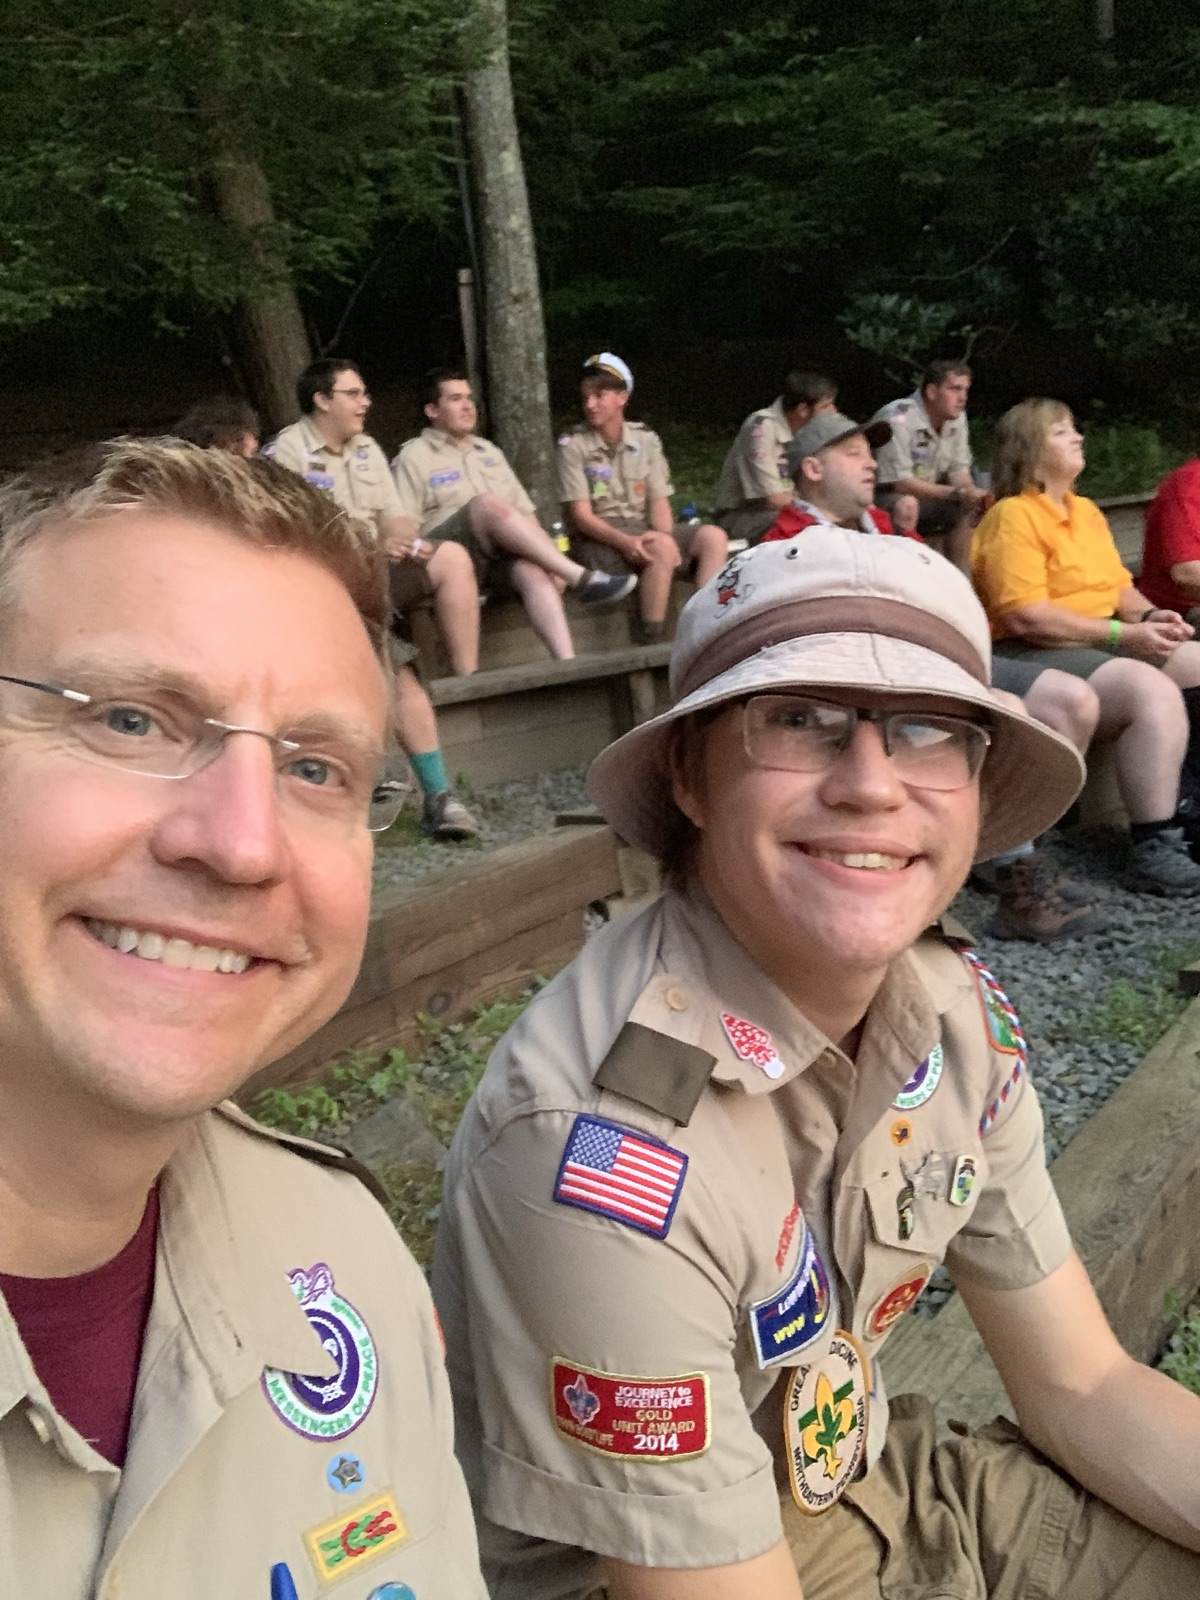
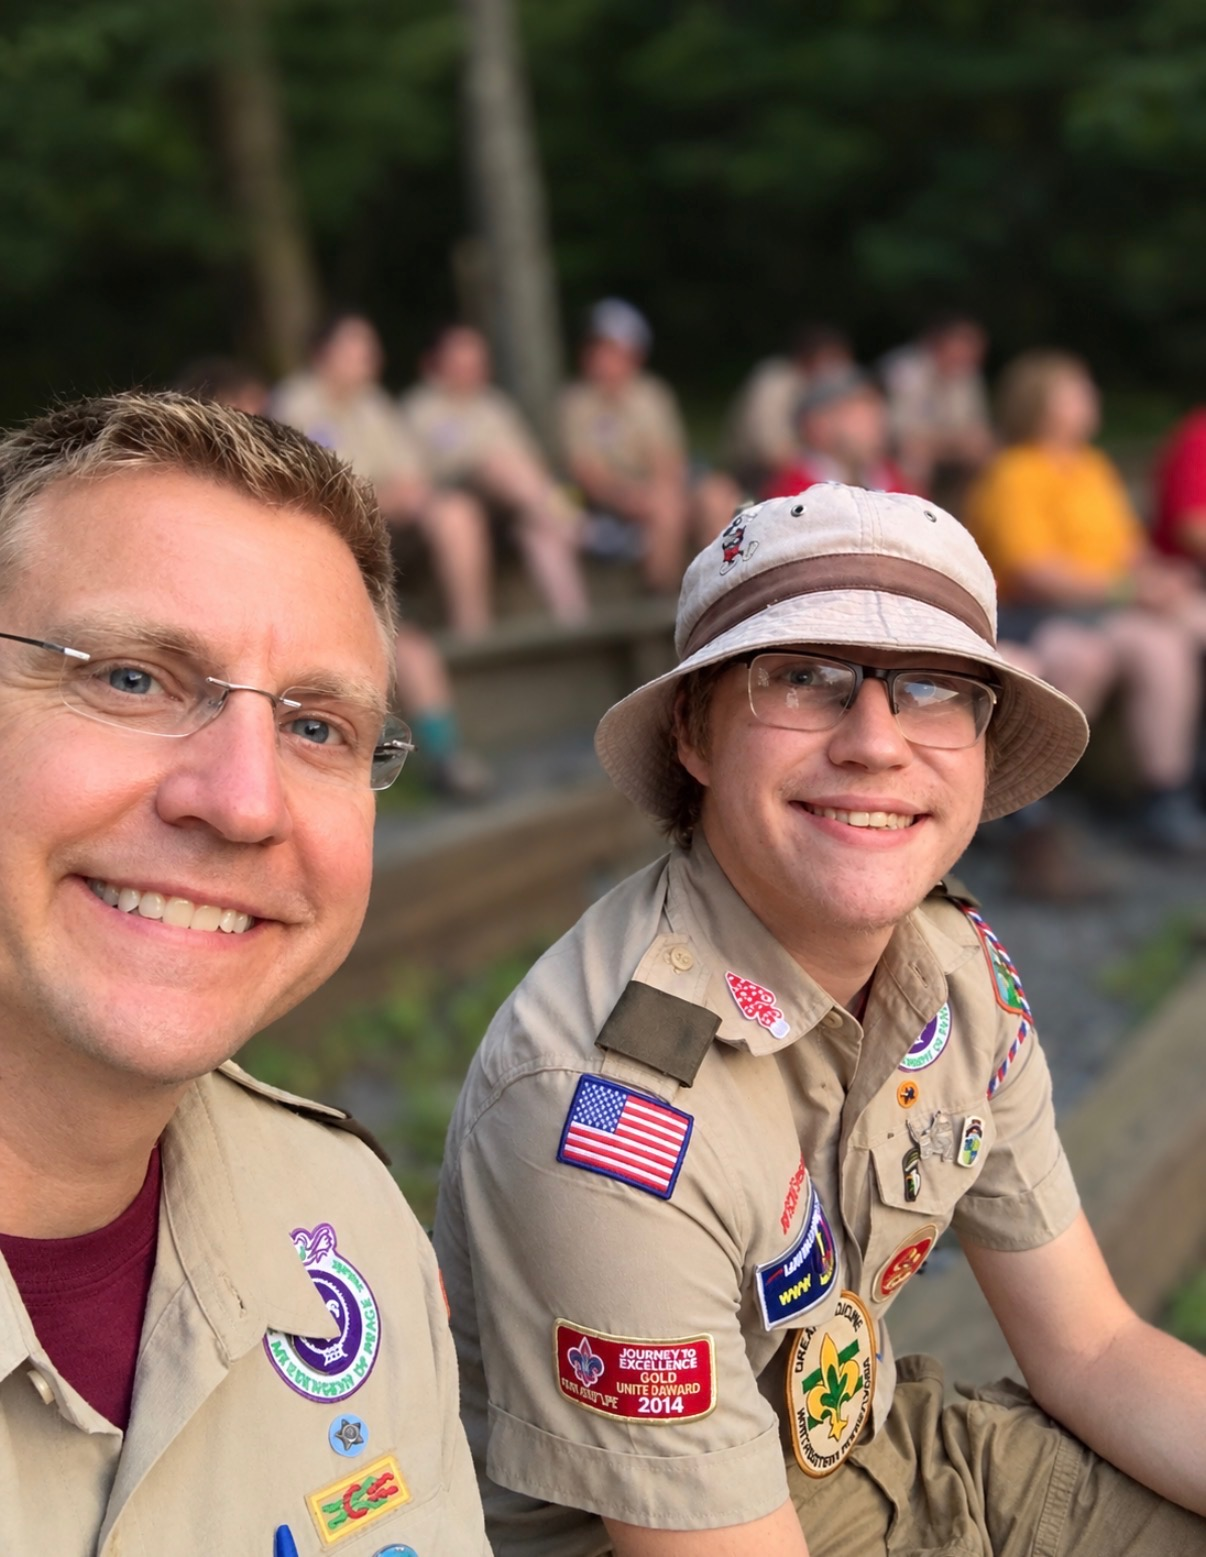
Replace Evan's slideshow photo with the background-blurred version
Swaps in the background-blurred camp photo for the existing Evan slot
instead of adding it as a separate sixth photo, and drops the
now-unused family-evan-camp.jpg.

diff --git a/components/family-slideshow.tsx b/components/family-slideshow.tsx
@@ -7,9 +7,8 @@ const photos = [
   { id: 1, src: "/family-beach.jpg", alt: "Chris Kimler with his wife and four children on the beach in Florida" },
   { id: 2, src: "/family-wesley.jpg", alt: "Chris Kimler with his son Wesley, who serves in the United States Navy" },
   { id: 3, src: "/family-abigail.jpg", alt: "Chris Kimler with his daughter Abigail at a soccer match in Tampa" },
-  { id: 4, src: "/family-evan.jpg", alt: "Chris Kimler with his son Evan, an Eagle Scout" },
+  { id: 4, src: "/family-evan.jpg", alt: "Chris Kimler with his son Evan at a Boy Scout camp" },
   { id: 5, src: "/family-zachary.jpg", alt: "Chris Kimler with his son Zachary at Merritt Island High School" },
-  { id: 6, src: "/family-evan-camp.jpg", alt: "Chris Kimler with his son Evan at a Boy Scout camp" },
 ];
 
 const VISIBLE = 3;
